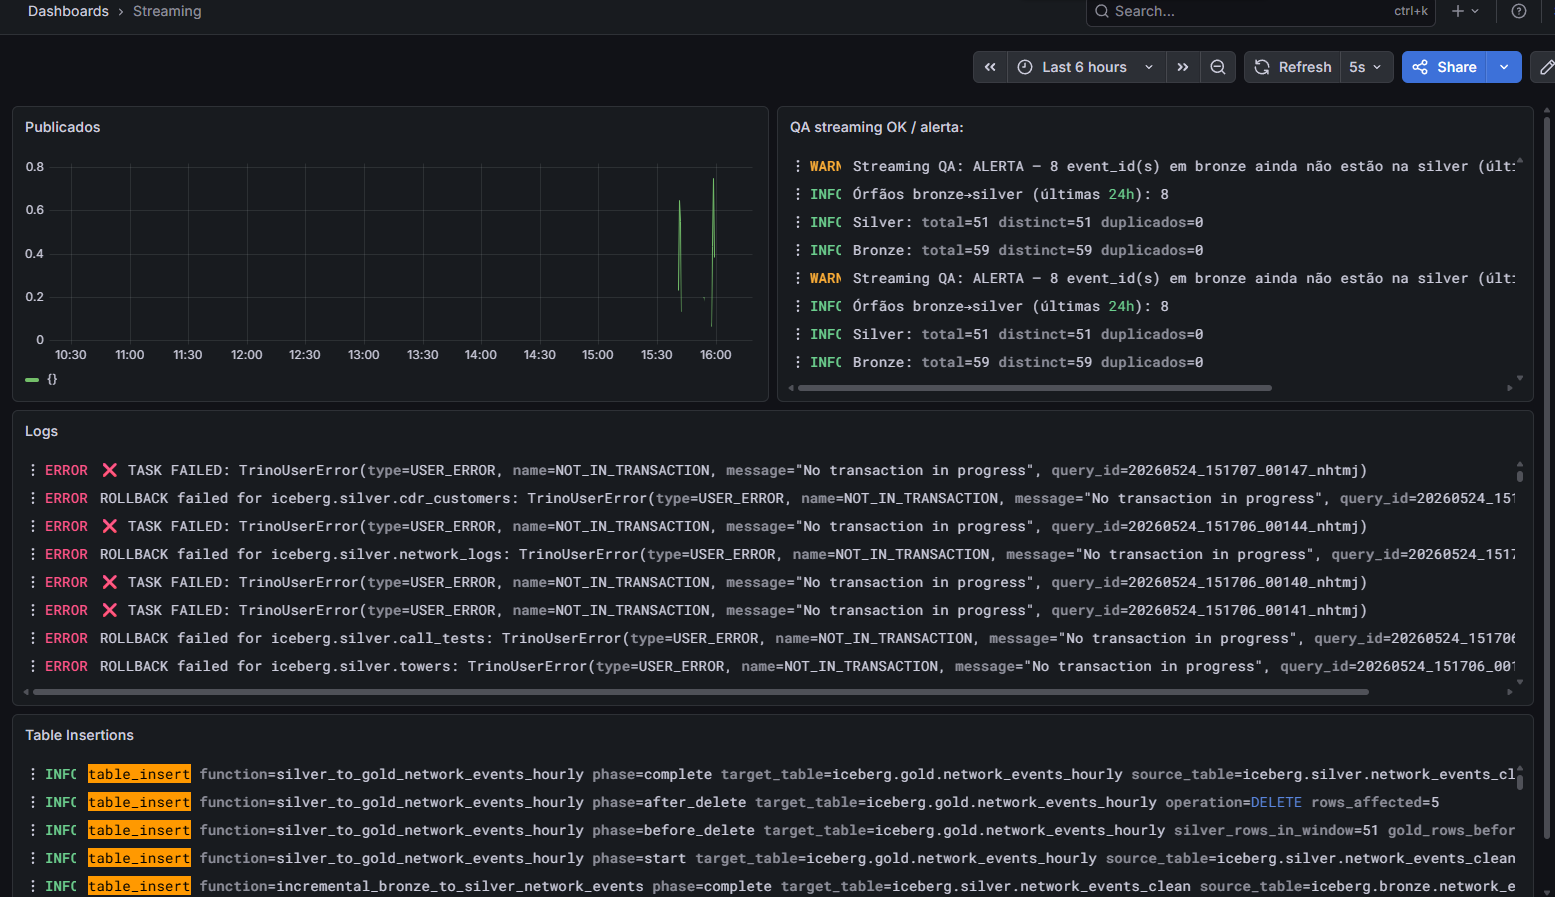
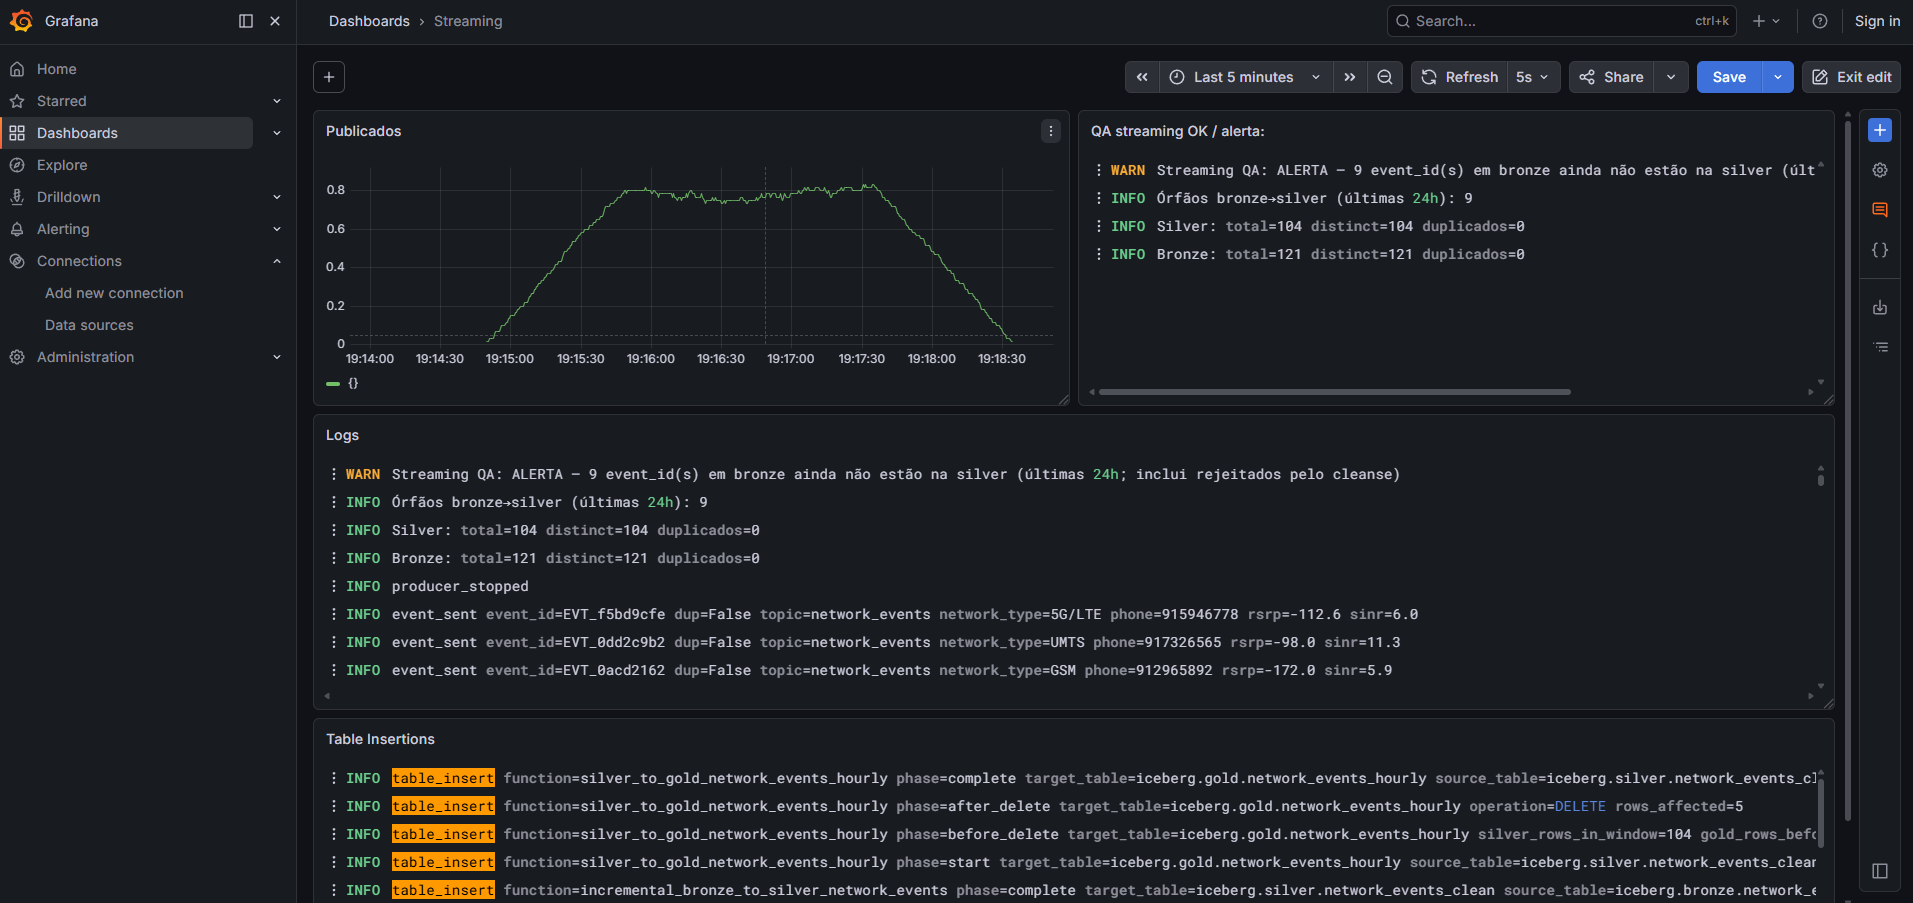
Add new pics

diff --git a/README.md b/README.md
@@ -213,7 +213,31 @@ Registar datasets sobre `iceberg.gold.network_quality_daily`, `iceberg.gold.chur
 
 ---
 
-## 7. Documentação e contratos (ficheiros no repo)
+## 7. Dashboards
+
+Screenshots disponíveis em `docs/Dashboards/`.
+
+### Grafana
+
+![Dashboard Grafana](docs/Dashboards/Dashboard%20Grafana.png)
+
+Config de importação: [`dashboard-grafana.json`](docs/Dashboards/dashboard-grafana.json)
+
+### Superset
+
+![Dashboard Superset](docs/Dashboards/Dashboard%20Superset.png)
+
+Pacote de exportação: [`dashboard_superset.zip`](docs/Dashboards/dashboard_superset.zip)
+
+### Superset — Network Quality
+
+![Dashboard Superset - Network Quality](docs/Dashboards/Dashboard%20Superset%20-%20Network%20Quality.png)
+
+Pacote de exportação: [`dashboard_superset.zip`](docs/Dashboards/dashboard_superset.zip)
+
+---
+
+## 8. Documentação e contratos (ficheiros no repo)
 
 | Artefacto | Caminho |
 |-----------|---------|
@@ -225,7 +249,7 @@ Registar datasets sobre `iceberg.gold.network_quality_daily`, `iceberg.gold.chur
 
 ---
 
-## 8. Datasets
+## 9. Datasets
 
 | Pasta | Conteúdo |
 |-------|----------|
@@ -237,7 +261,7 @@ Bronze no MinIO para o batch: prefixos `warehouse/bronze/cdr_customers/`, `netwo
 
 ---
 
-## 9. Scripts Python
+## 10. Scripts Python
 
 | Script | Função |
 |--------|--------|
@@ -249,7 +273,7 @@ Opções do producer: `--no-nulls`, `--no-loki`, `--broker localhost:19092`.
 
 ---
 
-## 10. SQL e catálogos Trino
+## 11. SQL e catálogos Trino
 
 | Ficheiro | Uso |
 |----------|-----|
